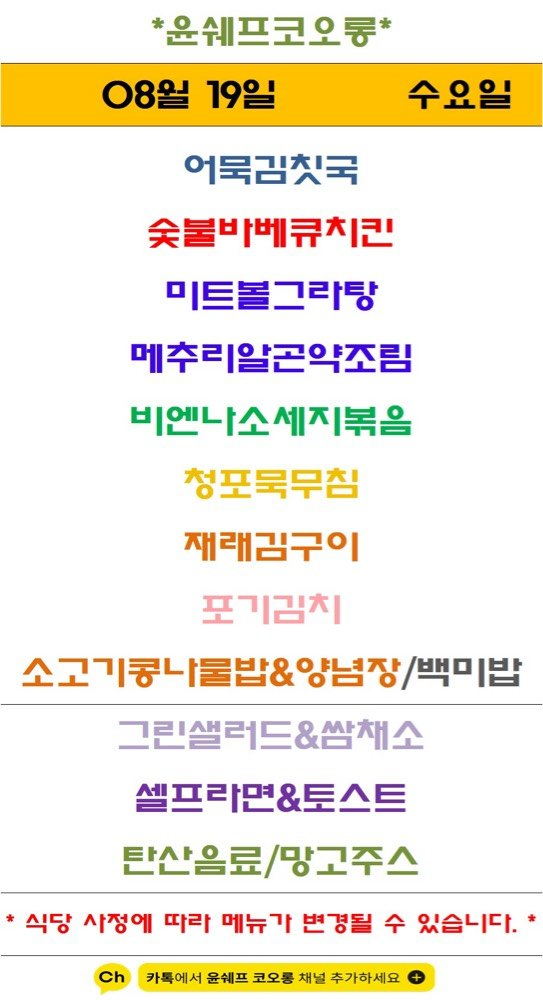
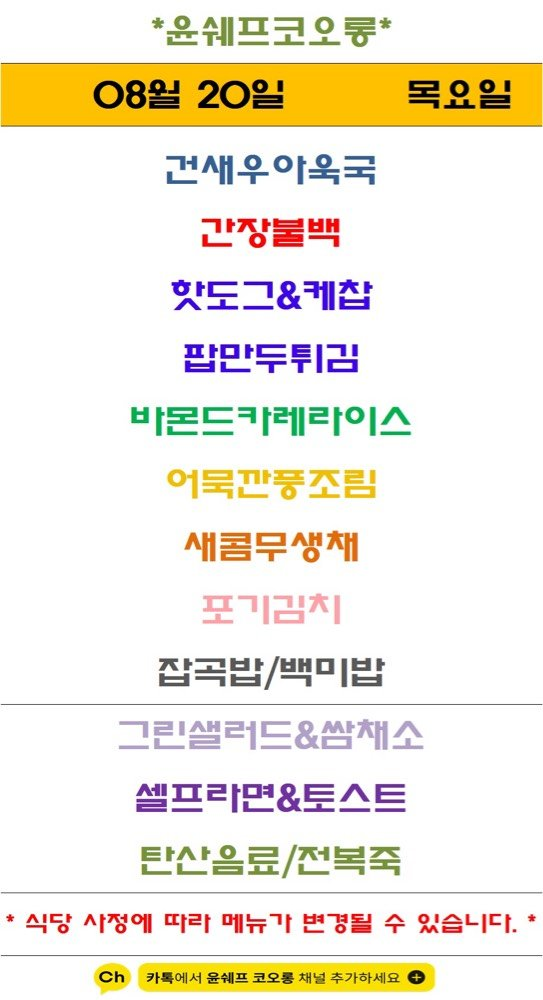
Update menu board assets

diff --git a/menu-today/index.html b/menu-today/index.html
@@ -209,7 +209,7 @@
 
     <section class="meta-bar">
       <div class="meta-card"><div class="meta-label">기준 날짜</div><div class="meta-value">2026년 8월 20일 목요일</div></div>
-      <div class="meta-card"><div class="meta-label">최종 가져온 시간</div><div class="meta-value">2026-08-20 09:04:02</div></div>
+      <div class="meta-card"><div class="meta-label">최종 가져온 시간</div><div class="meta-value">2026-08-20 09:13:10</div></div>
       <div class="meta-card"><div class="meta-label">확인 완료</div><div class="meta-value">9개 식당</div></div>
       <div class="meta-card"><div class="meta-label">준비중</div><div class="meta-value">3개 채널</div></div>
     </section>
@@ -235,7 +235,7 @@
             <div class="sub">가산 어반워크</div>
           </div>
         </div>
-        <div class="menu-inline-image"><img src="./images/dasibom.png" alt="다시 봄 식단 이미지"></div><ul><li>내이 =</li><li>개기</li></ul>
+        <div class="menu-inline-image"><img src="./images/dasibom.png" alt="다시 봄 식단 이미지"></div><ul><li>성양새우카 년</li><li>청양새우카츠</li><li>고기손만두찜</li><li>으지쪼드그르 으 ie</li><li>결무된장나물 ‘</li><li>추김치 [</li><li>락콩나물국</li><li>바지락콩나물</li></ul>
       </article>
 
       <article class="restaurant-card">
@@ -295,7 +295,7 @@
             <div class="sub">에이스테크노타워10차</div>
           </div>
         </div>
-        <div class="menu-inline-image"><img src="./images/thefoodsketch.png" alt="더푸드스케치 식단 이미지"></div><ul><li>© 설렁탕</li><li>망고수제탕수육</li><li>직화쑤꾸미볶음</li><li>호박야채전</li><li>토마토함박스테이크</li><li>백순대볶음</li><li>») 우묵냉채</li><li>&lt; 가지나물</li><li>가든샐러드 &amp; 드레싱</li><li>배추겉절이 / 음료</li></ul>
+        <div class="menu-inline-image"><img src="./images/thefoodsketch.png" alt="더푸드스케치 식단 이미지"></div><ul><li>© 설렁탕</li><li>망고수제탕수육</li><li>직화쑤꾸미볶음</li><li>호박야채전</li><li>토마토함박스테이크</li><li>백순대볶음</li><li>») 우묵냉채</li><li>&lt; 가지나물</li><li>가든샐러드 / 드레싱</li><li>배추겉절이 / 음료</li></ul>
       </article>
 
       <article class="restaurant-card">

diff --git a/guro-menu/index.html b/guro-menu/index.html
@@ -32,7 +32,7 @@
   </header>
   <section class="meta">
     <div><small>기준 날짜</small><strong>2026년 8월 20일 목요일</strong></div>
-    <div><small>최종 갱신</small><strong>2026-08-20 09:04:18</strong></div>
+    <div><small>최종 갱신</small><strong>2026-08-20 09:13:27</strong></div>
     <div><small>등록 식당</small><strong>5개</strong></div>
   </section>
   <div class="notice">공개 카카오 채널의 메뉴 이미지를 자동 수집하고 OCR로 정리합니다. 텍스트에 오타가 있을 수 있으니 식단 이미지를 함께 확인해 주세요.</div>
@@ -103,8 +103,8 @@
           <a class="channel" href="https://pf.kakao.com/_Xxhxkhs" target="_blank" rel="noopener">원본 채널</a>
         </div>
         <img class="menu-image" src="./images/yoon-chef-kolon.png" alt="윤쉐프 코오롱 식단 이미지" loading="lazy">
-        <p class="message">최신 공개 식단 이미지의 텍스트입니다. 날짜는 원본 이미지를 확인해 주세요.</p>
-        <ul><li>어묵김짓국</li><li>숫불바베큐지킨</li><li>미트볼그라탕</li><li>메주리알곤약조림</li><li>비엔나소세지볶음</li><li>재래리구이</li><li>소고기콩나불밥&amp;양념장/백미밥</li><li>그린샐러드&amp;쌈채소</li><li>셀프라면&amp;토스트</li><li>탄산음료/망고주스</li></ul>
+        
+        <ul><li>면새우아욱국</li><li>간장불백</li><li>핫도그&amp;케잡</li><li>팝만두튀김</li><li>바몬드카레라이스</li><li>새콤무생채</li><li>잡곡밥/백미밥</li><li>그린설러드&amp;쌈채소</li><li>셀프라면&amp;토스트</li><li>탄산음료/전복죽</li></ul>
       </article>
   </section>
   <section class="seo" aria-label="검색 정보">한신IT타워 구내식당 자연푸드 구내식당 더이츠푸드 벽산더이룸 윤쉐프 코오롱 한신IT타워 벽산디지털밸리7차 대륭포스트타워1차 벽산디지털밸리1차 코오롱싸이언스밸리1차 서울 구로구 디지털로 272 한신IT타워 지하1층 서울 구로구 디지털로33길 50 벽산디지털밸리7차 지하1층 서울 구로구 디지털로 288 대륭포스트타워1차 지하1층 서울 구로구 디지털로27길 24 벽산디지털밸리1차 지하1층 서울 구로구 디지털로34길 43 코오롱싸이언스밸리1차 지하1층</section>
